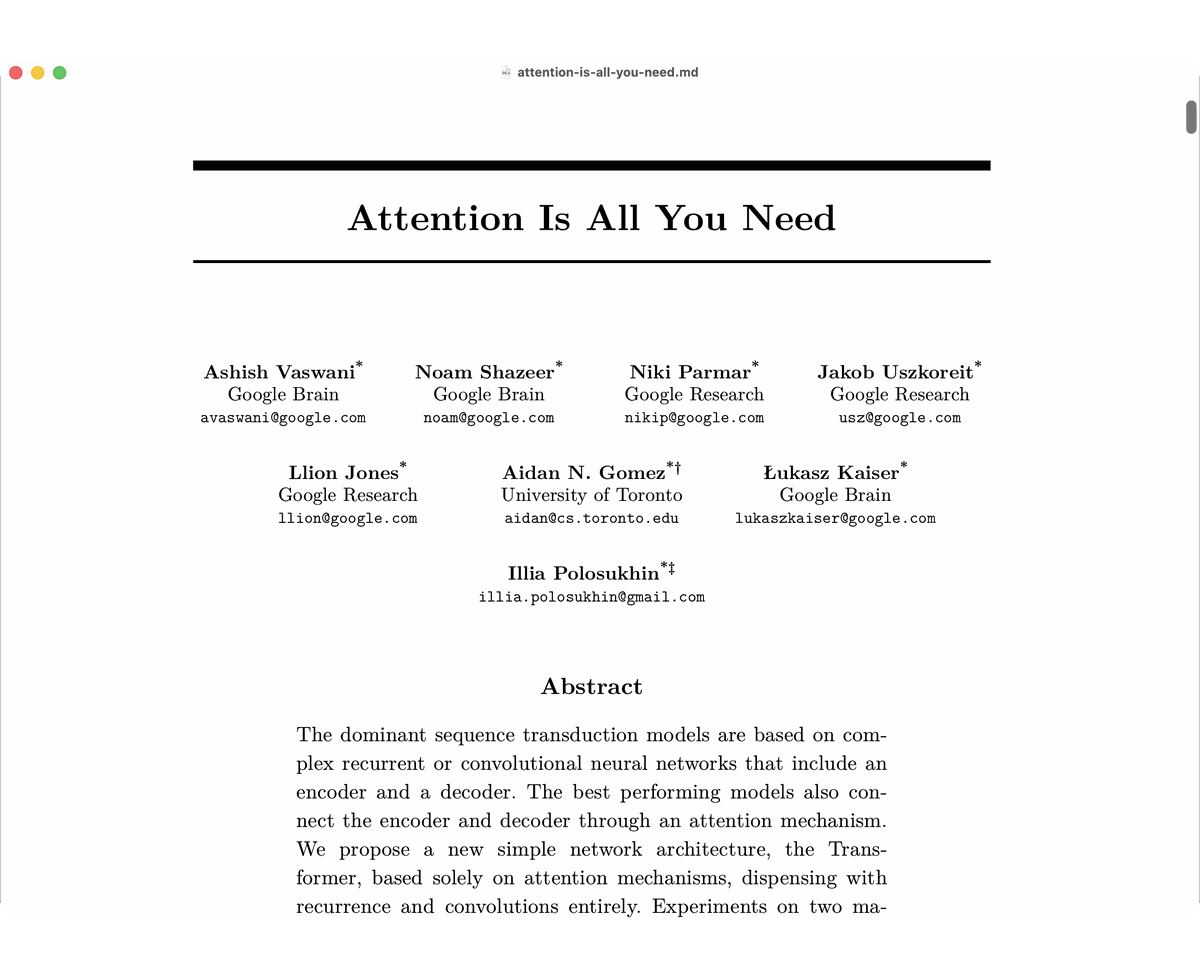
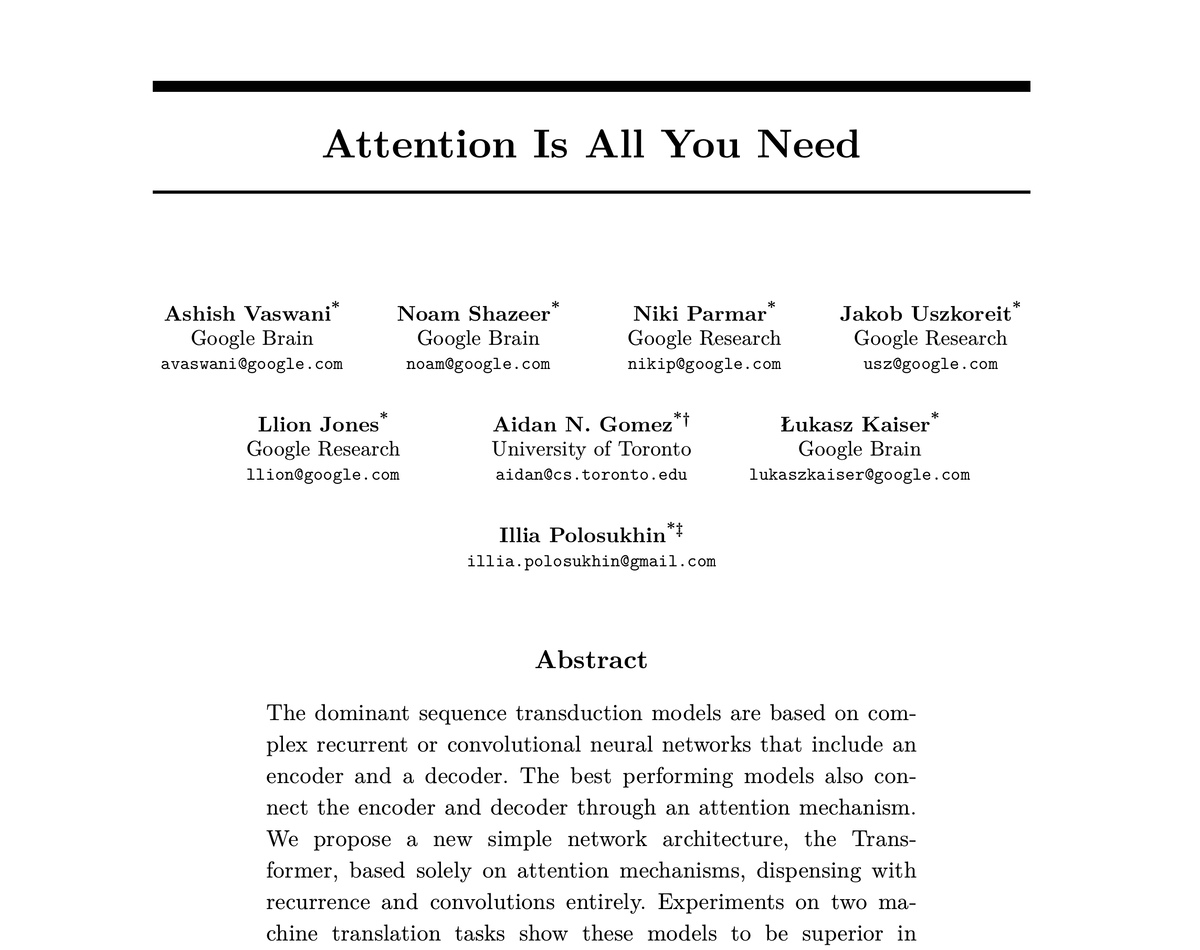
docs(readme): refresh theme screenshots

diff --git a/README.md b/README.md
@@ -1,9 +1,17 @@
 <div align="center">
 
-<img src="./docs/screenshots/latex-modes.png" alt="LaTeX Typora light and dark modes divided diagonally" width="49%" /> <img src="./docs/screenshots/attention-promo.png" alt="Attention Is All You Need rendered with the light LaTeX Typora theme" width="49%" />
+<img src="./docs/screenshots/latex-light-promo.png" alt="LaTeX Typora light theme" width="49%" /> <img src="./docs/screenshots/latex-dark-promo.png" alt="LaTeX Typora dark theme" width="49%" />
 
 <br />
-<sub>☀ <strong>Light</strong> + 🌙 <strong>Dark</strong> &nbsp;—&nbsp; <code>latex.css</code> / <code>latex-dark.css</code> &nbsp;&nbsp;|&nbsp;&nbsp; 📄 <strong>Attention Is All You Need</strong></sub>
+<sub>☀ <strong>Light</strong> &nbsp;—&nbsp; <code>latex.css</code> &nbsp;&nbsp;|&nbsp;&nbsp; 🌙 <strong>Dark</strong> &nbsp;—&nbsp; <code>latex-dark.css</code></sub>
+
+<br /><br />
+<img src="./docs/screenshots/attention-promo.png" alt="Attention Is All You Need rendered with the light LaTeX Typora theme" width="82%" />
+
+<br />
+<sub>📄 <strong>Attention Is All You Need</strong> rendered with the light theme</sub>
+<br />
+<sub>All screenshots were captured in Typora at <strong>150% zoom</strong>.</sub>
 
 </div>
 
@@ -72,7 +80,7 @@ Default theme folders:
 <div align="center">
   <img width="85%" src="./docs/screenshots/latex-dev-promo.png" alt="Developer Dark Mode" />
   <br />
-  <sub>💻 <strong>Developer Dark Mode</strong> &nbsp;—&nbsp; <code>latex-dev-dark.css</code></sub>
+  <sub>💻 <strong>Developer Dark Mode</strong> &nbsp;—&nbsp; <code>latex-dev-dark.css</code> &nbsp;·&nbsp; captured at <strong>150% zoom</strong></sub>
 </div>
 
 <br />
